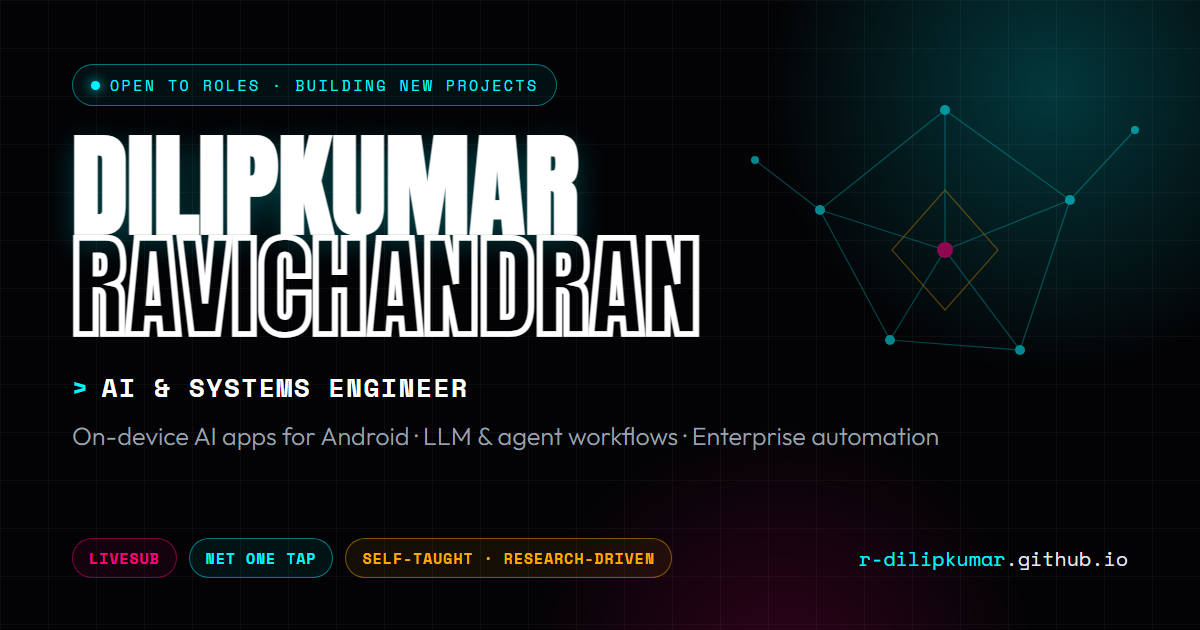
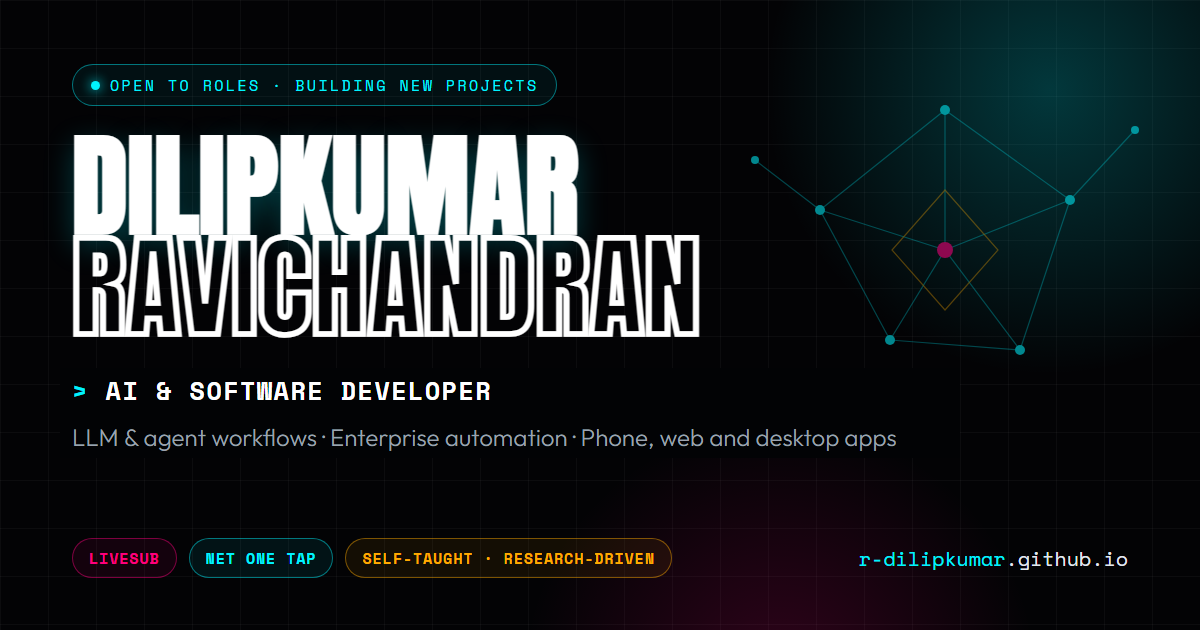
Present as AI and software developer; ASIAN MOBA now 266 tests

Changed region(s): [[0.0617, 0.6635, 0.7708, 0.7238], [0.0617, 0.6032, 0.4317, 0.6333]]

diff --git a/index.html b/index.html
@@ -3,16 +3,16 @@
 <head>
   <meta charset="UTF-8">
   <meta name="viewport" content="width=device-width, initial-scale=1.0">
-  <title>Dilipkumar Ravichandran | AI & Systems Engineer</title>
-  <meta name="description" content="AI & Systems Engineer portfolio: on-device AI apps for Android, a Firebase web app with Gemini vision, LLM and agentic workflows, enterprise automation, and mechatronics.">
-  <meta property="og:title" content="Dilipkumar Ravichandran | AI & Systems Engineer">
-  <meta property="og:description" content="AI & Systems Engineer portfolio: on-device AI apps for Android, a Firebase web app with Gemini vision, LLM and agentic workflows, enterprise automation, and mechatronics.">
+  <title>Dilipkumar Ravichandran | AI & Software Developer</title>
+  <meta name="description" content="AI & Software Developer portfolio: LLM and agent workflows, enterprise automation, and apps for phone, web and desktop, on a mechatronics foundation.">
+  <meta property="og:title" content="Dilipkumar Ravichandran | AI & Software Developer">
+  <meta property="og:description" content="AI & Software Developer portfolio: LLM and agent workflows, enterprise automation, and apps for phone, web and desktop, on a mechatronics foundation.">
   <meta property="og:type" content="website">
   <meta property="og:url" content="https://r-dilipkumar.github.io/">
   <meta property="og:image" content="https://r-dilipkumar.github.io/preview.png">
   <meta property="og:image:width" content="1200">
   <meta property="og:image:height" content="630">
-  <meta property="og:image:alt" content="Dilipkumar Ravichandran, AI & Systems Engineer: on-device AI apps, LLM and agent workflows, enterprise automation">
+  <meta property="og:image:alt" content="Dilipkumar Ravichandran, AI & Software Developer: LLM and agent workflows, enterprise automation, apps for phone, web and desktop">
   <meta name="twitter:card" content="summary_large_image">
   <meta name="twitter:image" content="https://r-dilipkumar.github.io/preview.png">
   
@@ -432,7 +432,7 @@
         </div>
 
         <p class="max-w-2xl text-base sm:text-lg md:text-xl text-gray-400 font-light leading-relaxed mb-10">
-          Self-driven engineer who learns by building. I research a problem, then ship the fix: on-device AI apps for Android, LLM and agent workflows, and enterprise automation, on a mechatronics foundation (8.29 CGPA). Based in Komarapalayam, Tamil Nadu, India.
+          Software developer who builds with AI. I research a problem, then ship the fix: LLM and agent workflows, enterprise automation, and apps for phone, web and desktop, on a mechatronics foundation (8.29 CGPA). Based in Komarapalayam, Tamil Nadu, India.
         </p>
 
         <div class="flex flex-wrap items-center gap-4 sm:gap-5">
@@ -465,7 +465,7 @@
             <span class="font-mono text-xs uppercase tracking-widest text-neonCyan font-bold">Executive Synopsis</span>
           </div>
           <p class="text-gray-200 text-base sm:text-lg md:text-xl font-light leading-relaxed max-w-4xl">
-            AI-focused engineer with five released Android apps, a live web app, a Windows desktop tool and an open-source AI agent skill:<strong class="text-white font-semibold">LiveSub</strong> runs speech recognition and translation fully on the phone, <strong class="text-white font-semibold">Offline Reel Captions</strong> makes offline subtitles for Tamil, Tanglish and other Indian languages, <strong class="text-white font-semibold">Artisan NPR Studio</strong> turns photos into art with 134 GPU styles, <strong class="text-white font-semibold">Live Wallpaper Maker</strong> lets anyone design layered live wallpapers with tilt parallax and 3D transitions, <strong class="text-white font-semibold">Net One Tap</strong> resets the mobile network in one tap, <strong class="text-white font-semibold">ASIAN MOBA 5v5 Tournament</strong> runs sign-ups, teams and brackets for a Mobile Legends tournament on Firebase, with Gemini reading players' stats screenshots, and <strong class="text-white font-semibold">Preflight Agent Skill</strong> makes AI coding agents research before they build and learn a lesson from every bug. <strong class="text-white font-semibold">DriveMate</strong> is a personal project: a plugin-based Windows tool tested on simulated devices over Modbus TCP, with an offline helper that answers from a manual and shows the page. I work with LLMs every day, from API calls with structured prompts to file-based agent workflows (ICM), backed by enterprise NetSuite automation experience (SuiteScript 2.1, Coupa, Filevine, Litify) and a hands-on robotics and embedded systems background. Most of what I use today I taught myself, from docs, source code and research papers.
+            Software developer who builds with AI. I've released five Android apps, a live web app, a Windows desktop tool and an open-source AI agent skill: <strong class="text-white font-semibold">LiveSub</strong> runs speech recognition and translation fully on the phone, <strong class="text-white font-semibold">Offline Reel Captions</strong> makes offline subtitles for Tamil, Tanglish and other Indian languages, <strong class="text-white font-semibold">Artisan NPR Studio</strong> turns photos into art with 134 GPU styles, <strong class="text-white font-semibold">Live Wallpaper Maker</strong> lets anyone design layered live wallpapers with tilt parallax and 3D transitions, <strong class="text-white font-semibold">Net One Tap</strong> resets the mobile network in one tap, <strong class="text-white font-semibold">ASIAN MOBA 5v5 Tournament</strong> runs sign-ups, teams and brackets for a Mobile Legends tournament on Firebase, with Gemini reading players' stats screenshots, and <strong class="text-white font-semibold">Preflight Agent Skill</strong> makes AI coding agents research before they build and learn a lesson from every bug. <strong class="text-white font-semibold">DriveMate</strong> is a personal project: a plugin-based Windows tool tested on simulated devices over Modbus TCP, with an offline helper that answers from a manual and shows the page. I work with LLMs every day, from API calls with structured prompts to file-based agent workflows (ICM), backed by enterprise NetSuite automation experience (SuiteScript 2.1, Coupa, Filevine, Litify) and a hands-on robotics and embedded systems background. Most of what I use today I taught myself, from docs, source code and research papers.
           </p>
         </div>
       </div>
@@ -734,7 +734,7 @@
               </div>
               <div class="border-l-2 border-gray-700 pl-4 sm:pl-6 min-w-0">
                 <strong class="text-white block mb-2 sm:mb-3 text-base sm:text-lg">Rules on the Server</strong>
-                Team, payment, result and admin changes go through Cloud Functions in Firestore transactions, behind Firestore and Storage security rules. 249 tests run against the Firebase emulators.
+                Team, payment, result and admin changes go through Cloud Functions in Firestore transactions, behind Firestore and Storage security rules. 266 tests run against the Firebase emulators.
               </div>
             </div>
             <div class="flex gap-2 sm:gap-2.5 flex-wrap mb-8">
@@ -1250,7 +1250,7 @@
         <span class="font-mono text-neonCyan text-xs tracking-widest uppercase mb-4 block">Signal Terminal</span>
         <h2 class="font-anton text-4xl sm:text-6xl md:text-7xl lg:text-8xl text-white uppercase tracking-wide mb-6 break-words">Let's Connect.</h2>
         <p class="text-gray-300 font-light text-base sm:text-lg md:text-xl leading-relaxed mb-8 max-w-2xl mx-auto">
-          Currently open to new roles, while building new projects. Happy to talk about AI engineering, on-device AI, Android apps, agent workflows, and enterprise automation.
+          Currently open to new roles, while building new projects. Happy to talk about software development, AI engineering, agent workflows, enterprise automation and on-device AI.
         </p>
         <div class="flex flex-wrap justify-center items-center gap-4 sm:gap-5 min-w-0">
           <button type="button" data-contact-open aria-haspopup="dialog" class="btn-cyber max-w-full">
@@ -1348,7 +1348,7 @@
 
     <!-- FOOTER -->
     <footer class="py-8 border-t border-gray-900/50 text-center font-mono text-xs text-gray-500 uppercase tracking-widest relative z-10">
-      <p class="mb-3">Dilipkumar Ravichandran — AI & Systems Engineer</p>
+      <p class="mb-3">Dilipkumar Ravichandran — AI & Software Developer</p>
       <p class="text-gray-600">Komarapalayam, Tamil Nadu, India • +91 75388 79358</p>
     </footer>
 
@@ -1422,7 +1422,7 @@
     }
 
     // --- Dynamic Role Typing Effect ---
-    const roles = ["AI ENGINEER", "ON-DEVICE AI BUILDER", "ANDROID DEVELOPER", "SELF-DRIVEN LEARNER", "MECHATRONICS ENGINEER"];
+    const roles = ["AI & SOFTWARE DEVELOPER", "LLM & AGENT WORKFLOWS", "ENTERPRISE AUTOMATION", "SELF-DRIVEN LEARNER", "MECHATRONICS ENGINEER"];
     let roleIndex = 0;
     let charIndex = 0;
     let isDeleting = false;

diff --git a/README.md b/README.md
@@ -1,6 +1,6 @@
 # Dilipkumar Ravichandran | Portfolio
 
-> AI & Systems Engineer · On-Device AI · Android · LLM & Agent Workflows · Enterprise Automation · Mechatronics
+> AI & Software Developer · LLM & Agent Workflows · Enterprise Automation · On-Device AI · Mechatronics
 
 Source of my portfolio website: **https://r-dilipkumar.github.io/**
 
@@ -10,7 +10,7 @@ Source of my portfolio website: **https://r-dilipkumar.github.io/**
 
 ## About Me
 
-I'm a self-driven engineer who learns by building. I research a problem first, then ship the fix: on-device AI apps for Android, web apps on Firebase, LLM and agent workflows, and enterprise automation. My degree is mechatronics (B.E., 8.29 CGPA); Android, on-device AI and LLM tooling I taught myself from documentation, open-source code and research papers.
+I'm a software developer who builds with AI. I research a problem first, then ship the fix: LLM and agent workflows, enterprise automation, and apps for phone, web and desktop. My degree is mechatronics (B.E., 8.29 CGPA); Android, on-device AI and LLM tooling I taught myself from documentation, open-source code and research papers.
 
 ---
 
